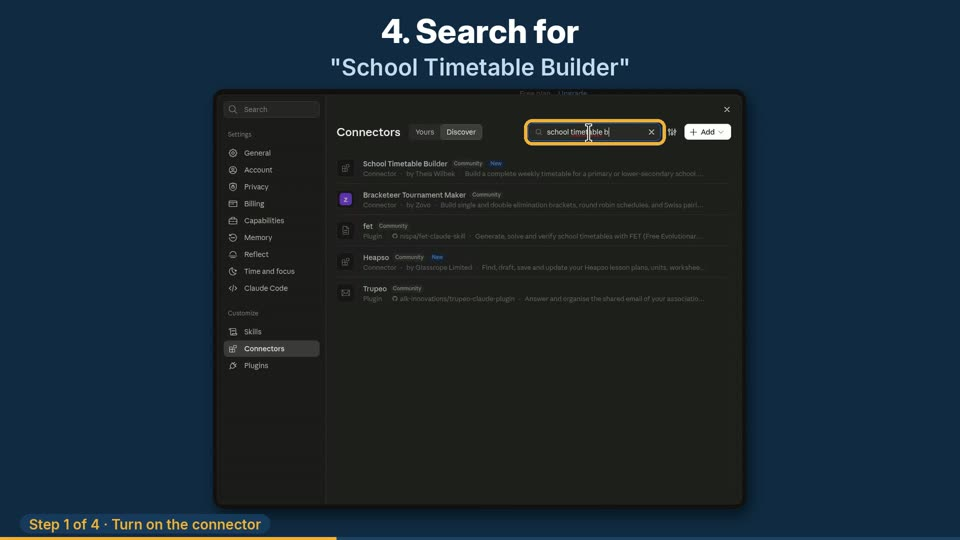
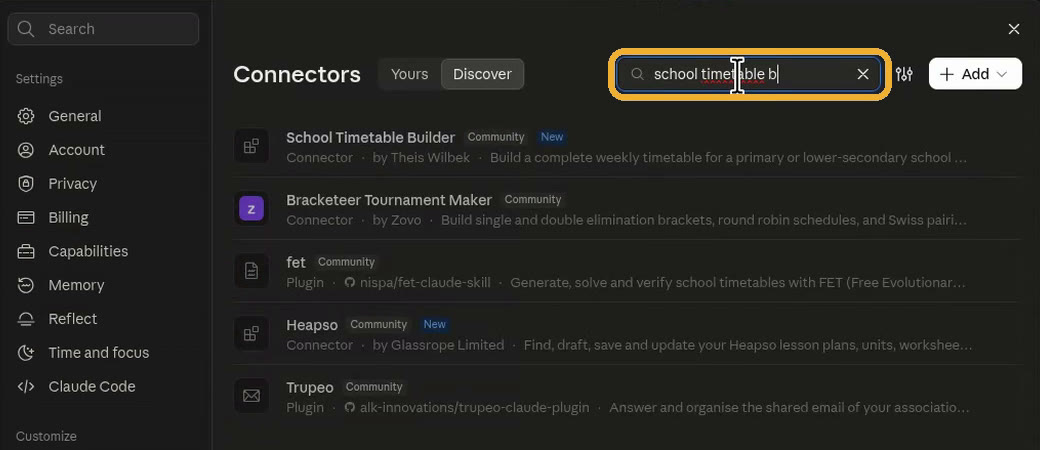
Vejledningssider (ChatGPT + Claude trin for trin), titel, README

diff --git a/how-to-make-a-school-timetable-with-claude.html b/how-to-make-a-school-timetable-with-claude.html
@@ -41,13 +41,13 @@ They do not need to be tidy.</li>
 <h2>Step 1: Find the connector</h2>
 <p>In Claude, open <a href="https://claude.ai/customize/connectors">Customize →
 Connectors</a> and search for "School Timetable Builder".</p>
-<p class="step wide"><img src="claude-1.jpg" width="960" height="540" loading="lazy"
+<p class="step wide"><img src="claude-1.jpg" width="1040" height="450" loading="lazy"
 alt="Claude's connector directory with a search for School Timetable Builder"></p>
 
 <h2>Step 2: Click "Connect to Claude"</h2>
 <p>Open School Timetable Builder and click <strong>Connect to Claude</strong>. No account,
 login or API key is needed.</p>
-<p class="step wide"><img src="claude-2.jpg" width="960" height="540" loading="lazy"
+<p class="step wide"><img src="claude-2.jpg" width="1040" height="430" loading="lazy"
 alt="The School Timetable Builder page in Claude with the Connect to Claude button"></p>
 <div class="box">
 <strong>Other way to connect:</strong> under Settings → Connectors → Add custom
@@ -58,7 +58,7 @@ also works on the free plan, which allows one custom connector.
 <h2>Step 3: Check it is switched on</h2>
 <p>Start a new chat, click <strong>+</strong> → <strong>Connectors</strong> and make
 sure School Timetable Builder is switched on.</p>
-<p class="step wide"><img src="claude-3.jpg" width="960" height="540" loading="lazy"
+<p class="step wide"><img src="claude-3.jpg" width="970" height="760" loading="lazy"
 alt="The plus menu in a new Claude chat showing School Timetable Builder switched on"></p>
 
 <h2>Step 4: Drop in your files and say what you want</h2>
